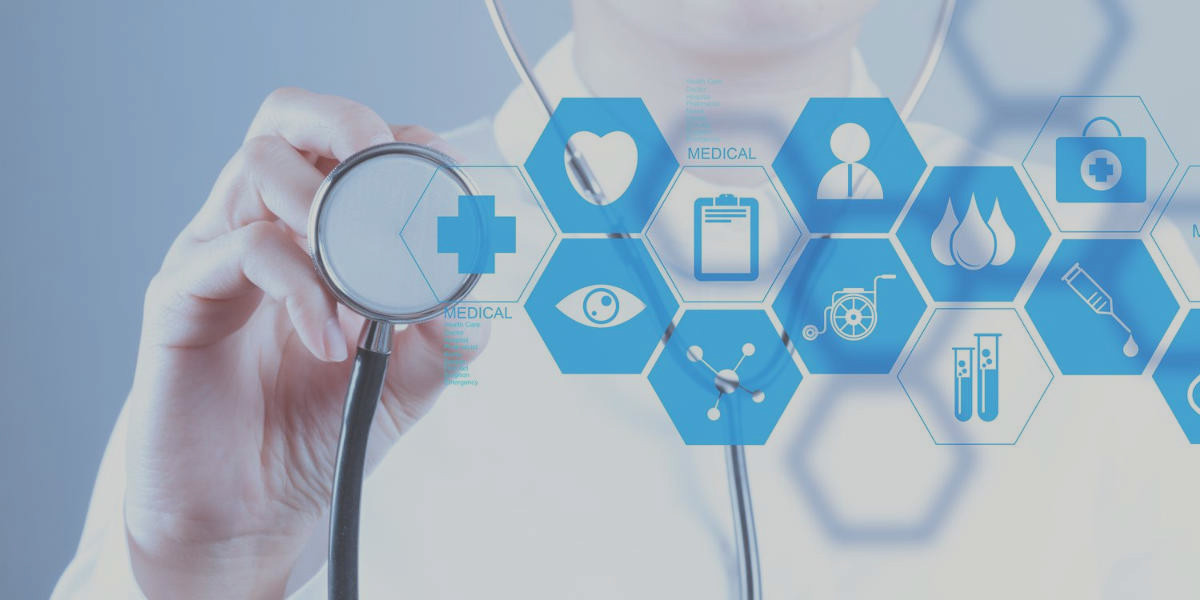
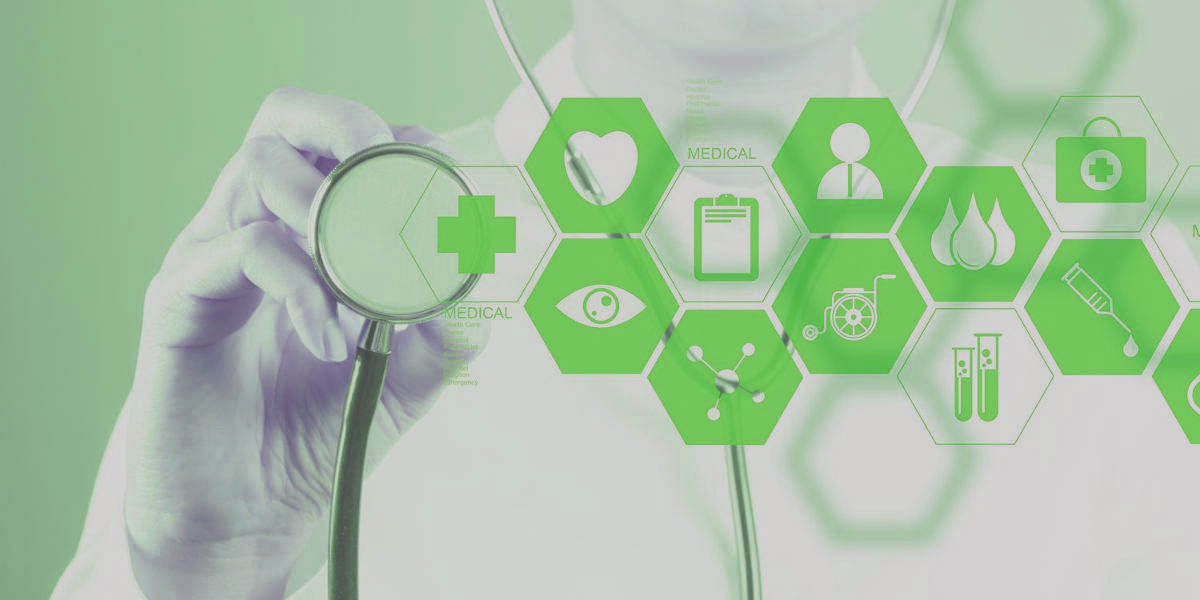
Latesh changes and primary color changed

diff --git a/app/assets/stylesheets/bootswatch_variables.scss b/app/assets/stylesheets/bootswatch_variables.scss
@@ -14,7 +14,7 @@ $gray:                   lighten($gray-base, 33.5%) !default; // #555
 $gray-light:             lighten($gray-base, 70%) !default;   // #999
 $gray-lighter:           lighten($gray-base, 93.5%) !default; // #eee
 
-$brand-primary:         #4582EC !default;
+$brand-primary:         #8BC343 !default;
 $brand-success:         #3FAD46 !default;
 $brand-info:            #5bc0de !default;
 $brand-warning:         #f0ad4e !default;

diff --git a/app/assets/stylesheets/land.scss b/app/assets/stylesheets/land.scss
@@ -9,6 +9,6 @@
   box-shadow: none;
 
   h1 {
-    color: #419BCD;
+    color: #FFF;
   }
 }

diff --git a/app/uploaders/attachment_uploader.rb b/app/uploaders/attachment_uploader.rb
@@ -5,7 +5,7 @@ class AttachmentUploader < CarrierWave::Uploader::Base
   # Include RMagick or MiniMagick support:
   # include CarrierWave::RMagick
   # include CarrierWave::MiniMagick
-  include Cloudinary::CarrierWave
+  # include Cloudinary::CarrierWave
 
   # Choose what kind of storage to use for this uploader:
   # storage :file
